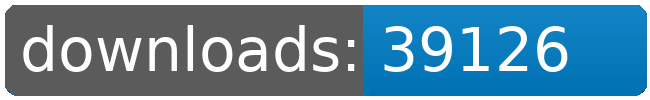
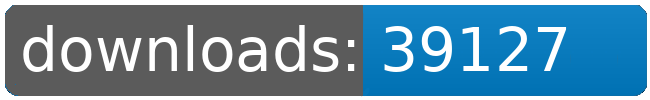
dl log written

Changed region(s): [[0.8, 0.24, 0.8923, 0.72]]

diff --git a/README.md b/README.md
@@ -21,8 +21,8 @@
 		<td>4696</td>
 		<td>4737</td>
 		<td>4764</td>
-		<td>4777</td>
-		<td>+ 13</td>
+		<td>4778</td>
+		<td>+ 14</td>
 	</tr>
 	<tr>
 		<td>Factory.Outlets</td>
@@ -109,8 +109,8 @@
 		<td></td>
 		<td></td>
 		<td></td>
-		<td>39126</td>
-		<td>86</td>
+		<td>39127</td>
+		<td>87</td>
 	</tr>
 </table>
 </sub></sup>
@@ -150,6 +150,17 @@
 		<td>+ 12</td>
 	</tr>
 	<tr>
+		<td>Bunsen.Burner</td>
+		<td>4598</td>
+		<td>4627</td>
+		<td>4658</td>
+		<td>4696</td>
+		<td>4737</td>
+		<td>4764</td>
+		<td>4778</td>
+		<td>+ 14</td>
+	</tr>
+	<tr>
 		<td>Korunak.Defense.Drones</td>
 		<td>4646</td>
 		<td>4665</td>
@@ -159,17 +170,6 @@
 		<td>4767</td>
 		<td>4777</td>
 		<td>+ 10</td>
-	</tr>
-	<tr>
-		<td>Bunsen.Burner</td>
-		<td>4598</td>
-		<td>4627</td>
-		<td>4658</td>
-		<td>4696</td>
-		<td>4737</td>
-		<td>4764</td>
-		<td>4777</td>
-		<td>+ 13</td>
 	</tr>
 	<tr>
 		<td>Solar.Sails</td>
@@ -223,8 +223,8 @@
 		<td></td>
 		<td></td>
 		<td></td>
-		<td>39126</td>
-		<td>86</td>
+		<td>39127</td>
+		<td>87</td>
 	</tr>
 </table>
 </sub></sup>
